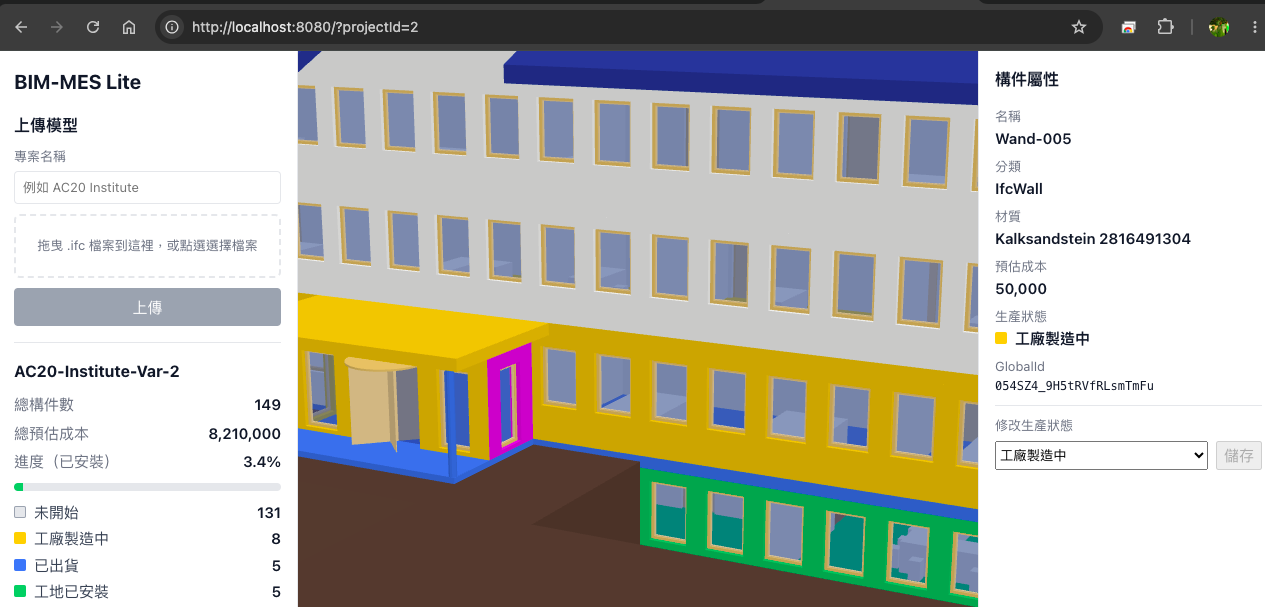
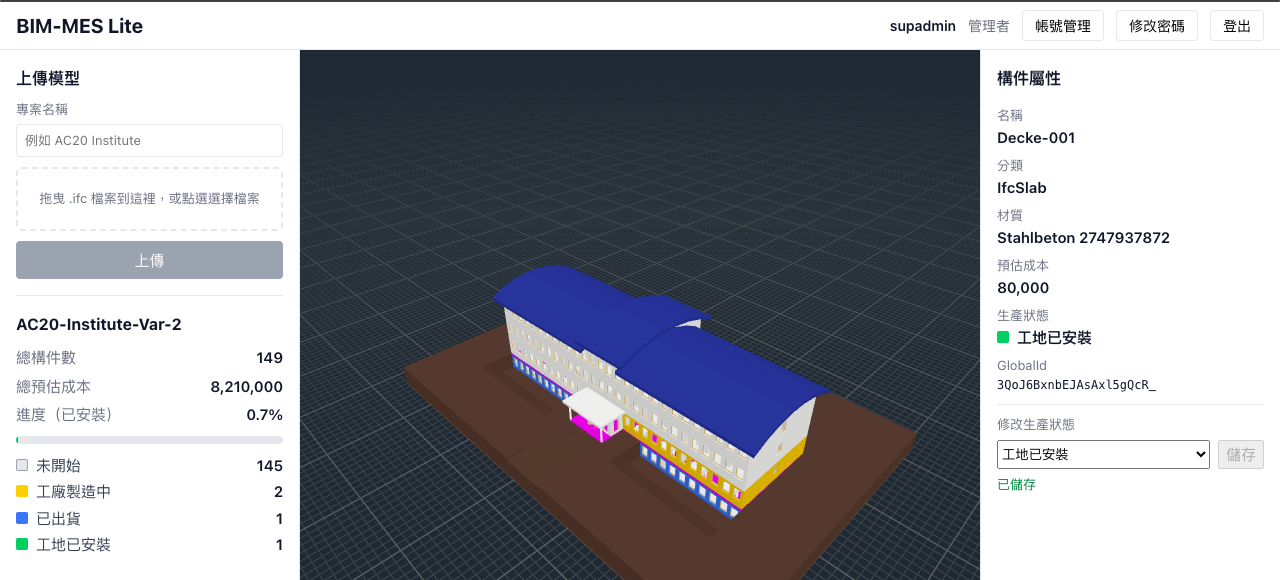
docs(showcase): sync with stages 7 and 8 (deployment, sign-in and permissions)

diff --git a/README.md b/README.md
@@ -1,12 +1,12 @@
 # BIM-MES Lite
 
-BIM 預製構件的生產進度與成本追蹤系統。上傳建築模型（`.ifc`）後，後端解析其中的牆、柱、梁、樓板並寫入資料庫；前端以 3D 顯示模型，依生產狀態為構件上色，點選構件即可查看屬性並更新狀態。
+BIM 預製構件的生產進度與成本追蹤系統。上傳建築模型（`.ifc`）後，後端解析其中的牆、柱、梁、樓板並寫入資料庫；前端以 3D 顯示模型，依生產狀態為構件上色，點選構件即可查看屬性並更新狀態。使用者需登入，可執行的操作依角色的功能權限決定。
 
 這是個人作品集專案，用來練習 ASP.NET Core 與 Vue 3 的全端開發，以及與 AI 程式助手（Claude Code）分工的開發流程。
 
 **本 repo 只包含說明文件，不含原始碼。** 內容：
 
-- 本文件：功能、技術棧、架構、原始碼結構、測試與資安做法。
+- 本文件：功能、技術棧、架構、原始碼結構、測試、資安與部署做法。
 - [docs/ai-collaboration.md](docs/ai-collaboration.md)：與 Claude Code 的協作方式。
 
 ## 與 AI 協作
@@ -17,21 +17,25 @@ BIM 預製構件的生產進度與成本追蹤系統。上傳建築模型（`.if
 
 協作方式分兩個時期：
 - **階段一～五：**逐任務進行。每個任務的回報、差異、驗證結果都和我確認，我讀 diff 後自己 commit。
-- **階段六起：**整個階段交給 Claude Code 處理。開始前先問我可能要決定的問題；進行中遇到需要決定的事仍會停下來問（階段六發生過三次）；每個任務通過後由它 commit（不推送）；最後交付各任務的結果，由我確認這個階段是否完成。到目前為止，還沒有出現需要大規模調整、影響整個階段的協調。
+- **階段六～八：**整個階段交給 Claude Code 處理。開始前先問我可能要決定的問題；進行中遇到需要決定的事仍會停下來問；每個任務通過後由它 commit（不推送）；需要在瀏覽器確認的項目集中請我確認；最後交付各任務的結果，由我確認這個階段是否完成。階段八在瀏覽器確認與資安複查後，追加了五個任務（T74～T78）。到目前為止，還沒有出現需要推翻整個階段規劃的協調。
 
 Claude Code 的建議我不一定照單全收。例如：
 - 測試後要等 3～7 分鐘才能回到開發，Claude 說明這是容器掛載路徑不同造成的；我認為開發效率無法接受，要求查外部資料改善。後來查出主因是 Docker 長時間運作後變慢，並[消除了每次約 50 秒的重新編譯](docs/ai-collaboration.md#繼續追查-50-秒的重新編譯並先查外部資料2026-11-18)。
 - 上傳上限、頻率限制、名稱長度原本直接依規格實作；我要求[這些數值只在一處設定](docs/ai-collaboration.md#可調整的數值只改一處2026-11-18)，方便日後調整與測試。
 - Claude 建議為「刪除資料庫後重建失敗」加自動重試；我判斷那是初始化才會發生的流程，不需要，[改成重置時只清空資料表](docs/ai-collaboration.md#不為刪除資料庫後的重建做自動重試2026-11-15)。
+- 規劃登入時，Claude 依角色名稱授權；考量日後要加 2FA、可能新增角色，我要求[改成「角色 → 功能權限」並加上角色權重](docs/ai-collaboration.md#授權改成功能權限與角色權重2026-11-19)。
 
 完整的分工、流程，以及每一次與建議不同的回應和原因，見 [docs/ai-collaboration.md](docs/ai-collaboration.md)。
 
 ## 功能
 
-- 上傳 `.ifc` 檔（拖曳或選擇檔案），後端解析出可追蹤構件（`IfcWall`、`IfcColumn`、`IfcBeam`、`IfcSlab`）並寫入 SQLite。
-- 專案總覽：總構件數、總預估成本、各狀態數量、安裝進度百分比。
-- 3D 檢視：旋轉、縮放、平移；依生產狀態上色（未開始＝原色、工廠製造中＝黃、已出貨＝藍、工地已安裝＝綠）。
-- 點選構件：側邊欄顯示名稱、分類、材質、預估成本、狀態，可直接修改生產狀態，畫面與統計同步更新。
+- **登入：**帳號密碼登入，不開放自行註冊。首位管理者在第一次啟動時由環境變數建立，其他帳號由管理者建立。
+- **權限：**三種角色（Admin、Operator、Viewer），程式依功能權限（例如「上傳模型」「修改狀態」）決定可執行的操作，畫面也只顯示有權限的操作。
+- **上傳模型：**上傳 `.ifc` 檔（拖曳或選擇檔案），後端解析出可追蹤構件（`IfcWall`、`IfcColumn`、`IfcBeam`、`IfcSlab`）並寫入 SQLite。
+- **專案總覽：**總構件數、總預估成本、各狀態數量、安裝進度百分比。
+- **3D 檢視：**旋轉、縮放、平移；依生產狀態上色（未開始＝原色、工廠製造中＝黃、已出貨＝藍、工地已安裝＝綠）。
+- **點選構件：**側邊欄顯示名稱、分類、材質、預估成本、狀態，可直接修改生產狀態，畫面與統計同步更新。
+- **帳號管理：**建立帳號、改角色、停用／啟用、重設密碼、解除登入失敗造成的暫時鎖定；使用者可自行修改密碼。
 - 以網址 `?projectId=<id>` 重新開啟專案。
 
 預估成本是依構件分類給的固定模擬金額，不是實際估價。
@@ -42,20 +46,26 @@ Claude Code 的建議我不一定照單全收。例如：
 
 ![專案總覽與依狀態上色的 3D 模型](images/overview.png)
 
-點選構件後，右側欄顯示屬性，並可修改生產狀態。
+點選構件後，右側欄顯示屬性，並可修改生產狀態。上方列顯示登入者與角色，以及帳號管理、修改密碼、登出。
 
 ![點選構件後的屬性欄](images/element-inspector.png)
+
+帳號管理（以首位管理者登入）：可建立帳號，並對其他帳號改角色、停用、重設密碼。自己這一列沒有操作，因為任何人都不能透過帳號管理處理自己。
+
+![帳號管理面板](images/user-admin.png)
 
 ## 技術棧
 
 | 層 | 使用技術 |
 |---|---|
 | 後端 | ASP.NET Core Web API（.NET 8）、Entity Framework Core 8（Code-First + Migration）、SQLite |
+| 身分驗證 | ASP.NET Core Identity（帳號、密碼雜湊、鎖定）、JWT Bearer |
 | IFC 解析 | Xbim.Essentials |
 | 前端 | Vue 3（Composition API）、TypeScript、Vite |
 | 3D | @thatopen/components、web-ifc、Three.js |
 | 測試 | 後端 xUnit + `WebApplicationFactory`（記憶體內 SQLite）；前端 Vitest + @vue/test-utils + jsdom |
 | 開發環境 | Docker、Docker Compose（所有建置、測試、執行都在容器中） |
+| 正式版 | 多階段建置的映像檔（非 root 執行）、nginx（前端靜態檔與反向代理）、自架 registry |
 
 選擇 SQLite 是因為開發機只有 8GB RAM，無法同時負擔 SQL Server 容器。資料存取透過 EF Core，日後換成其他資料庫時主要改動在連線設定與 Migration。
 
@@ -65,31 +75,57 @@ Claude Code 的建議我不一定照單全收。例如：
 瀏覽器
   │
   ▼
-Vue 3 前端（Vite dev server，/api 與 /uploads 經 proxy 轉發，同源，不啟用 CORS）
-  │
+前端（開發：Vite dev server；正式版：nginx）
+  │   /api、/uploads 轉發到後端，同源，不啟用 CORS
   ▼
-ASP.NET Core Web API
+ASP.NET Core Web API（正式版只在容器內部網路，不對外開放連接埠）
+  ├─ JWT 驗證 → 每次請求從資料庫載入使用者目前的權限
   ├─ IIfcParsingService     → XbimIfcParsingService（解析 .ifc）
   ├─ IFileStorageService    → LocalFileStorageService（存原始 .ifc）
-  └─ AppDbContext (EF Core) → SQLite
+  └─ AppDbContext (EF Core + Identity) → SQLite
 ```
 
 上傳流程：檢查大小與檔頭（STEP 標記）→ 解析 → 檢查 GlobalId 是否已存在（重複上傳回 409）→ 儲存檔案 → 寫入資料庫。先解析再存檔，壞檔與重複上傳不會留下孤兒檔案。
 
 檔案儲存以介面抽象，目前只有本機目錄的實作；原本規劃的 MinIO（S3 相容）實作已暫緩。
 
+### 授權模型
+
+- 程式只檢查**功能權限**，不檢查角色名稱。角色擁有哪些權限存在資料庫，日後可以調整或新增角色，不必改程式。
+- 權限不寫進 token，每次請求從資料庫載入，所以調整權限、停用帳號、重設密碼後立即生效，舊 token 也會失效。
+- 角色有**權重**（Admin 100、Operator 50、Viewer 10）。管理帳號時只能管理、指派權重比自己低的使用者與角色。
+- 首位管理者另有「管理同權重使用者」的權限，是唯一能管理其他 Admin 的人；任何人都不能透過帳號管理處理自己。
+
+| 權限 | 對應功能 | 預設擁有的角色 |
+|---|---|---|
+| `projects.view` | 查看專案、構件、下載模型檔 | Admin、Operator、Viewer |
+| `projects.upload` | 上傳模型 | Admin |
+| `elements.update-status` | 修改構件的生產狀態 | Admin、Operator |
+| `users.manage` | 帳號管理與角色清單 | Admin |
+| `users.unlock` | 解除他人的暫時鎖定（同權重之間也可以） | Admin |
+| `users.manage-peers` | 搭配 `users.manage`，也能管理同權重的使用者 | 不屬於任何角色，只給首位管理者 |
+
 ### API
 
-| 方法 | 路徑 | 說明 |
-|---|---|---|
-| POST | `/api/projects/upload` | 上傳 `.ifc` 與專案名稱，回傳解析統計 |
-| GET | `/api/projects/{projectId}` | 專案資訊、模型檔 URL、各狀態數量與總成本 |
-| GET | `/api/projects/{projectId}/elements` | 專案所有構件與狀態 |
-| GET | `/api/elements/{globalId}` | 單一構件 |
-| PUT | `/api/elements/{globalId}/status` | 更新生產狀態（0～3） |
-| GET | `/api/settings/upload` | 前端需要的上傳上限 |
+除了登入，所有 API 與 `/uploads` 都要登入；未登入回 401，缺少權限回 403。
 
-錯誤一律回 ProblemDetails（`application/problem+json`），需要前端辨識的錯誤帶固定的 `type`（例如 `urn:bim-mes:not-step-file`）。
+| 方法 | 路徑 | 說明 | 權限 |
+|---|---|---|---|
+| POST | `/api/auth/login` | 登入，回傳 token、角色與權限 | 不需登入 |
+| GET | `/api/auth/me` | 目前使用者的角色與權限 | 已登入 |
+| POST | `/api/auth/change-password` | 自行修改密碼 | 已登入 |
+| POST | `/api/projects/upload` | 上傳 `.ifc` 與專案名稱，回傳解析統計 | `projects.upload` |
+| GET | `/api/projects/{projectId}` | 專案資訊、模型檔 URL、各狀態數量與總成本 | `projects.view` |
+| GET | `/api/projects/{projectId}/elements` | 專案所有構件與狀態 | `projects.view` |
+| GET | `/api/elements/{globalId}` | 單一構件 | `projects.view` |
+| PUT | `/api/elements/{globalId}/status` | 更新生產狀態（0～3） | `elements.update-status` |
+| GET | `/api/settings/upload` | 前端需要的上傳上限 | 已登入 |
+| GET、POST | `/api/users` | 帳號清單、建立帳號 | `users.manage` |
+| PUT／POST | `/api/users/{id}/role`、`disable`、`enable`、`reset-password` | 改角色、停用、啟用、重設密碼 | `users.manage` |
+| POST | `/api/users/{id}/unlock` | 解除暫時鎖定 | `users.unlock` |
+| GET | `/api/roles` | 角色清單與目前使用者可指派的角色 | `users.manage` |
+
+錯誤一律回 ProblemDetails（`application/problem+json`），需要前端辨識的錯誤帶固定的 `type`（例如 `urn:bim-mes:not-step-file`、`urn:bim-mes:role-weight-forbidden`）。
 
 ## 原始碼結構
 
@@ -98,29 +134,40 @@ ASP.NET Core Web API
 ```text
 .
 ├── backend/                     ASP.NET Core Web API
-│   ├── Controllers/             Projects、Elements、Settings
-│   ├── Data/                    AppDbContext
+│   ├── Auth/                    角色、權限常數、首位管理者的建立
+│   ├── Controllers/             Auth、Projects、Elements、Settings、Users、Roles
+│   ├── Data/                    AppDbContext（含 Identity 資料表）
 │   ├── Models/                  BimProject、BimElement、ProductionStatus
 │   ├── Dtos/                    請求與回應模型
 │   ├── Services/
+│   │   ├── Auth/                JWT 簽發與驗證、權限載入、角色權重規則
 │   │   ├── Ifc/                 IFC 解析（介面＋Xbim 實作）
 │   │   └── Storage/             檔案儲存（介面＋本機實作）
 │   ├── Validation/              GlobalId 格式、STEP 檔頭檢查
 │   ├── Middleware/              安全標頭
-│   ├── RateLimiting/            上傳頻率限制的分區鍵
+│   ├── RateLimiting/            頻率限制的分區鍵（上傳、登入、改密碼）
 │   ├── Options/                 強型別設定
-│   └── Migrations/              EF Core Migration
+│   ├── Migrations/              EF Core Migration
+│   └── Dockerfile               正式版後端映像檔
 ├── frontend/                    Vue 3 + Vite + TypeScript
-│   └── src/
-│       ├── api/                 API client 與型別
-│       ├── components/          UploadPanel、ProjectSummary、InspectorPanel、IfcViewer
-│       ├── constants/           生產狀態（數值、名稱、顏色）
-│       └── security/            禁止 v-html／innerHTML 的檢查測試
+│   ├── src/
+│   │   ├── api/                 API client 與型別
+│   │   ├── auth/                登入狀態、權限判斷、角色顯示名稱
+│   │   ├── components/          LoginPanel、UploadPanel、ProjectSummary、InspectorPanel、
+│   │   │                        IfcViewer、ChangePasswordDialog、UserAdminPanel
+│   │   ├── constants/           生產狀態（數值、名稱、顏色）
+│   │   └── security/            禁止 v-html／innerHTML 的檢查測試
+│   ├── Dockerfile               正式版前端映像檔
+│   └── nginx.conf               靜態檔、反向代理、安全標頭與 CSP
 ├── tests/BimMes.Api.Tests/      後端單元與整合測試、手寫的小型 IFC 測試檔
-├── scripts/security-scan.sh     套件弱點掃描（後端與前端）
+├── scripts/
+│   ├── security-scan.sh         套件弱點掃描（後端與前端）
+│   └── build-and-push.sh        測試、掃描、建置並推送映像檔
 ├── tutor/                       規格、設計決定、任務清單等協作文件
 ├── .claude/                     Claude Code 子代理與指令定義
-└── docker-compose.yml           開發用服務（後端 dotnet watch、前端 Vite）
+├── .env.example                 首位管理者與 JWT 金鑰的範本（實際的 .env 不進 git）
+├── docker-compose.yml           開發用服務（後端 dotnet watch、前端 Vite）
+└── docker-compose.prod.yml      正式版（registry 上的映像檔，不掛載原始碼）
 ```
 
 ## 開發環境
@@ -130,34 +177,66 @@ ASP.NET Core Web API
 - 開發時以官方映像檔（`mcr.microsoft.com/dotnet/sdk:8.0`、`node:24-alpine`）掛載原始碼執行，後端用 `dotnet watch`、前端用 Vite dev server 熱重載。
 - 建置、測試、套件安裝、弱點掃描也都在容器中執行。
 - 記憶體有限，同一時間只跑一個建置或測試容器。
+- 首位管理者的帳密與 JWT 簽章金鑰放在 repo 根目錄的 `.env`（不進 git），由 compose 帶入後端。
 
 後端採同步解析，約 10MB 的範例模型上傳需要 30～40 秒。
 
+## 正式版建置與部署
+
+正式版與開發環境並存，不取代開發流程：
+
+- **映像檔：**前後端各一個，多階段建置，執行階段以非 root 使用者執行。前端映像檔用 nginx 提供靜態檔，並把 `/api`、`/uploads` 轉發給後端。
+- **compose：**只有前端對外開放連接埠，後端只在容器內部網路；資料（SQLite 與上傳檔）放在具名 volume。映像檔標籤必須指定，沒有預設值，避免誤用 `latest`。
+- **推送腳本：**要求工作目錄乾淨，依序執行後端測試、前端測試、弱點掃描，再建置 `linux/amd64` 映像檔並推送。標籤為 commit 雜湊與 `latest`；HEAD 有 `v主.次.修` 的 git tag 時，多推一個版本標籤。
+- **版本：**`v1.0.0`（階段七，尚無登入）、`v1.0.1`（階段八，加入登入與權限）已推送到自架的 registry。
+- **機密：**推送腳本與 compose 不含任何帳密；registry 沿用本機的 `docker login`，首位管理者與 JWT 金鑰由部署主機上的 `.env` 帶入。
+
 ## 測試
 
-截至 2026-11-19：後端 102 個測試方法（含參數化），前端 71 個測試案例。
+截至 2026-11-20：後端 401 個、前端 205 個測試全部通過（執行時的數量，含參數化測試展開後的案例）。
 
 - 後端：服務層的單元測試，以及用 `WebApplicationFactory` 對每支 API 的成功與主要錯誤路徑做整合測試。
-- 整合測試以記憶體內 SQLite 與暫存目錄執行，不讀寫實際的資料庫與上傳目錄。
+- 授權：以「角色 × API」的矩陣測試每個角色的預期狀態碼；暫時給 Viewer 加上「修改狀態」權限、確認同一個 token 立即可以修改，證明系統檢查的是權限而不是角色名稱。
+- 整合測試以記憶體內 SQLite 與暫存目錄執行，不讀寫實際的資料庫與上傳目錄；測試用的密碼與簽章金鑰在執行時隨機產生。
 - 測試用 IFC 是手寫的極小檔（已知構件數與成本），可以精確斷言解析結果。
-- 前端：API client（以 mock 取代 `fetch`）、狀態常數、三個面板元件。
+- 前端：API client（以 mock 取代 `fetch`）、登入狀態與權限判斷、狀態常數、各面板與對話框元件。
 - 3D 檢視器需要 WebGL，jsdom 無法執行，**不在自動化測試範圍**，以人工在瀏覽器確認。
-- 沒有瀏覽器 E2E 測試（考量開發機記憶體）。
+- 沒有瀏覽器 E2E 測試（考量開發機記憶體）；登入、帳號管理、正式版與 CSP 由我在瀏覽器確認。
 
 ## 資訊安全
 
-系統目前**沒有登入**，任何能連線的人都能上傳與修改狀態，因此不應直接對網際網路開放。已實作的防護用來降低異常輸入的影響，每一項都有對應的自動化測試：
+所有功能都要登入並依權限檢查。下列防護都有對應的自動化測試或記錄的手動確認，詳細的測試對應與已知限制記在私有 repo 的資安筆記中。
 
-- 上傳大小上限（413）、每個 IP 的上傳頻率限制（429）、專案名稱長度上限。
-- 檔案內容檢查：只接受 STEP 格式的 `.ifc`（檢查檔頭 `ISO-10303-21;`）。
-- 儲存檔名由伺服器產生（`{GUID}.ifc`），不使用原始檔名。
-- 路由參數 `globalId` 與狀態值的格式驗證。
+**身分驗證與授權**
+- 密碼以 Identity 預設的雜湊方式保存，只要求最短長度（12 字）；連續登入失敗 5 次鎖定 15 分鐘。
+- 帳號不存在、密碼錯誤、已停用、已鎖定一律回同樣的 401，不透露帳號是否存在。
+- JWT 只接受 HMAC-SHA256，驗證簽發者、對象與有效期；正式環境缺少或太短的簽章金鑰時，後端拒絕啟動。
+- 停用、重設密碼、改角色、自行改密碼都會讓該使用者原本的 token 立即失效。
+- 自行改密碼需要目前的密碼。
+- 前端 token 存在 `sessionStorage`，關閉分頁即登出；任何 401 都清除 token 並回到登入畫面。
+
+**頻率限制**
+- 上傳：每個登入者每分鐘 5 次（無法辨識登入者時依 IP）。
+- 登入：每個 IP 每分鐘 10 次。
+- 自行改密碼：每個登入者每 15 分鐘 5 次（目前密碼打錯不計入鎖定，改以頻率限制防止猜測）。
+- 正式版由 nginx 覆寫 `X-Forwarded-For`，後端只在正式版設定開啟時採用，用戶端偽造的標頭無效。
+
+**輸入與檔案**
+- 上傳大小上限（413）、專案名稱長度上限、只接受 STEP 格式的 `.ifc`（檢查檔頭 `ISO-10303-21;`）。
+- 儲存檔名由伺服器產生（`{GUID}.ifc`），不使用原始檔名；`/uploads` 只提供 `.ifc`，下載也需要權限。
+- 路由參數 `globalId`、狀態值、使用者名稱的格式驗證。
+
+**回應與前端**
 - 非 Development 環境不回傳堆疊追蹤；Swagger 只在 Development 啟用。
-- 安全標頭（`nosniff`、`X-Frame-Options: DENY`、`Referrer-Policy: no-referrer`）；`/uploads` 只提供 `.ifc`。
+- 安全標頭（`nosniff`、`X-Frame-Options: DENY`、`Referrer-Policy: no-referrer`）；正式版 nginx 另加 Content-Security-Policy，只為 3D 檢視器放寬 WebAssembly 編譯與 `blob:` Worker。
 - 前端不以 `v-html`／`innerHTML` 顯示資料（以測試檢查原始碼）。
-- 套件弱點掃描腳本（後端 `dotnet list package --vulnerable`、前端 `npm audit`），每個階段結束時執行。
 
-上限數值集中在 `appsettings.json`，可用環境變數覆寫，前端從 API 取得而不另外寫死。
+**套件與機密**
+- 套件弱點掃描腳本（後端 `dotnet list package --vulnerable`、前端 `npm audit`），每個階段結束時執行，推送腳本也會執行。
+- 機密掃描：比對 `.env` 的實際值、金鑰形式的字串、機密名稱被指定字面值的寫法，每個階段結束時執行。
+- 可調整的數值集中在 `appsettings.json`，可用環境變數覆寫；機密只從環境變數帶入，不寫進設定檔。
+
+正式版只提供 HTTP，帳密與 token 會以明文傳送，所以不應直接對網際網路開放；對外時要放在提供 HTTPS 的反向代理後方。
 
 ## 開發進度
 
@@ -167,13 +246,16 @@ ASP.NET Core Web API
 | 四 | MinIO 物件儲存 | 暫緩（官方映像檔已無法取得） |
 | 五 | 自動化測試 | 完成 |
 | 六 | 資訊安全基本防護 | 完成 |
-| 七 | 正式版映像檔（多階段建置、nginx、非 root）與部署用 compose | 進行中 |
-| 八 | 登入、使用者與角色權限 | 未開始 |
+| 七 | 正式版映像檔（多階段建置、nginx、非 root）、部署用 compose、推送腳本 | 完成（`v1.0.0`） |
+| 八 | 登入、使用者與角色權限，以及加入登入後的資安複查 | 完成（`v1.0.1`） |
 
 ## 已知限制
 
-- 沒有身分驗證與權限控管（階段八）。
+- 沒有 HTTPS，需要由前方的反向代理提供。
+- 沒有 refresh token，也沒有撤銷清單；token 在有效期內被竊取即可使用，只能靠停用、重設密碼等方式讓它失效。
+- 沒有 2FA、沒有角色管理的 API 與畫面（角色的權重與權限只能直接改資料庫），也沒有登入與帳號操作的稽核紀錄。
+- 首位管理者無法透過 API 停用、降級或重設密碼，忘記密碼時只能直接操作資料庫。
+- 登入頻率依 IP 計算，同一 IP 的使用者共用額度；一人打錯密碼可能讓同一 IP 的其他人暫時無法登入（畫面會顯示大約要等多久）。
 - IFC 解析是同步處理，大型模型會讓上傳請求等待較久；沒有背景工作佇列。
 - 只追蹤牆、柱、梁、樓板四類構件；門、窗等其他構件可以顯示但不記錄狀態。
 - 成本為模擬值。
-- 開發環境只有 HTTP。
